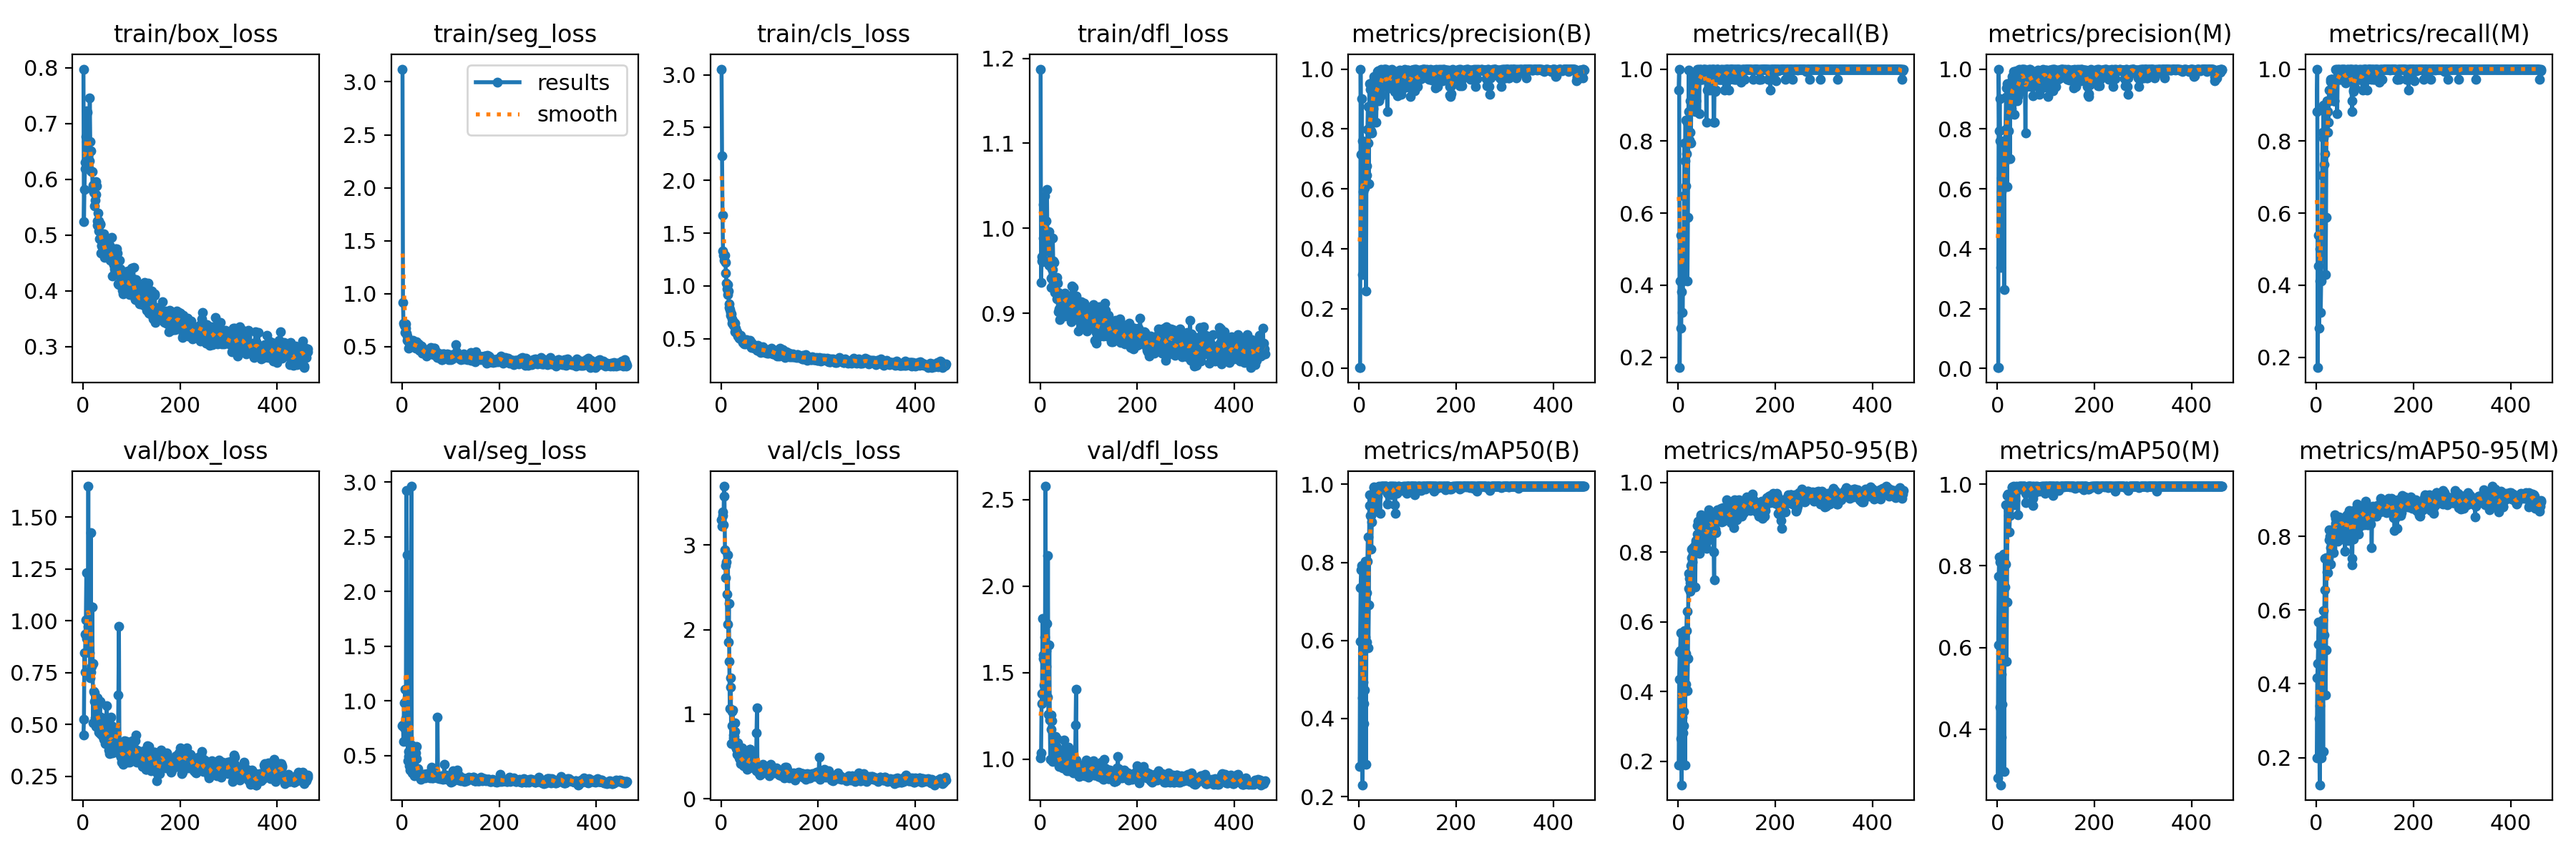
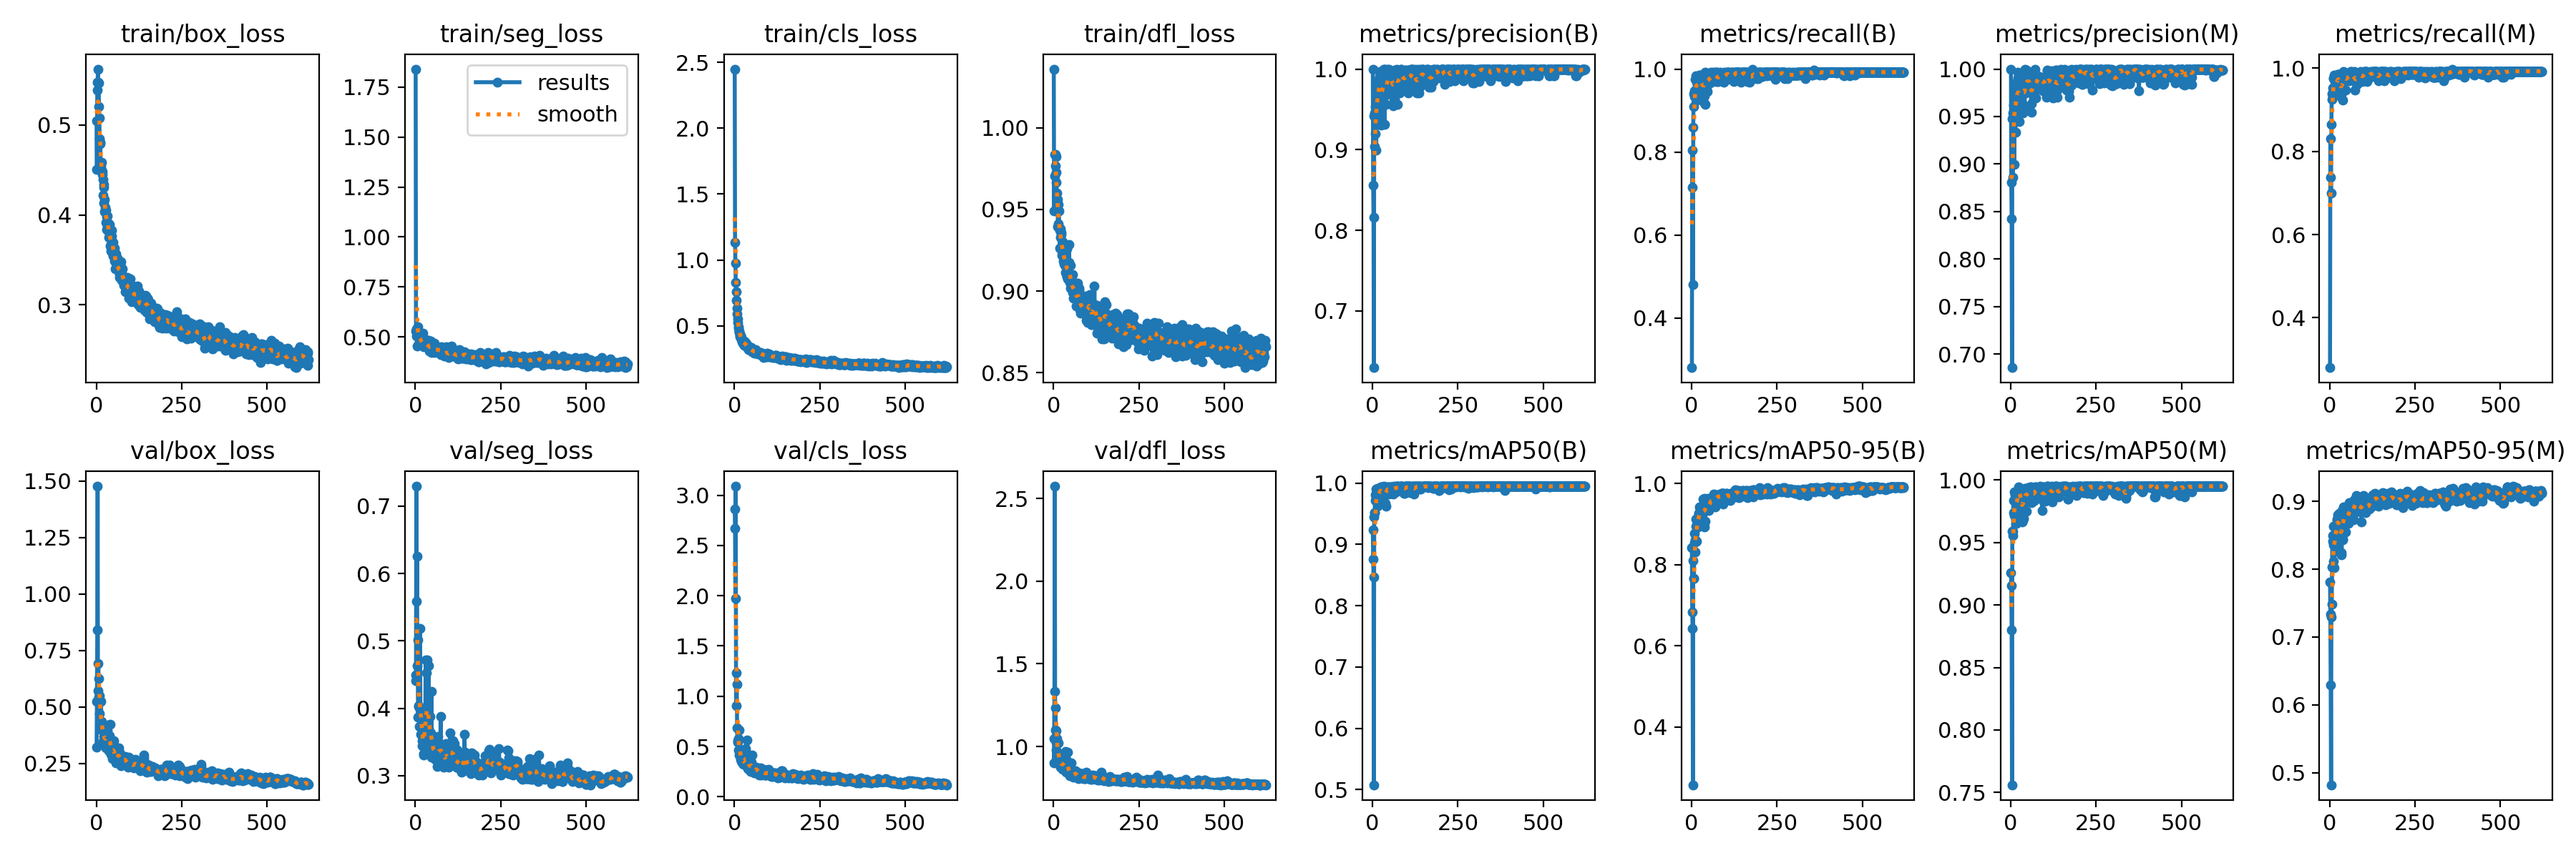
v1.2.9 Update

diff --git a/translate.js b/translate.js
@@ -1,6 +1,6 @@
 const translations = {
   zh: {
-    nav: ["下载", "功能", "画廊", "常见问题", "联系", "English"],
+    nav: ["下载", "功能", "画廊", "常见问题", "测试", "联系", "English"],
     downloadTitle: "下载",
     downloadText: `你有没有因为奇怪的挂机检查而无法舒畅地玩 <a href="https://florr.io" class="text-blue-600 underline hover:text-blue-800" target="_blank" rel="noopener noreferrer">florr.io</a>？下载最新版的 Florr Auto AFK ，让你以高准确率轻松解决它们。目前我们的程序没有导致任何封号记录，因此现在是很安全的。`,
     latestVersion: "最新版本：",
@@ -22,7 +22,7 @@ const translations = {
     ],
     galleryTitle: "画廊",
     galleryText: "以下是模型解决的挂机检查图集和训练统计。",
-    trainingStats: "2025 年 5 月 23 日训练，使用 225 个样本（192 训练样本，33 验证样本），共 431 轮训练。",
+    trainingStats: "2025 年 6 月 1 日训练，使用 878 个样本（747 训练样本，131 验证样本），共 521 轮训练。",
     faqTitle: "常见问题",
     faqSubtitle: "常见问题解答",
     faqItems: [
@@ -47,6 +47,8 @@ const translations = {
         a: `**不支持**。我只有 Windows 设备，手头没有 Mac 测试。如果你真的想用，可以下载 <a href="https://github.com/Shiny-Ladybug/florr-auto-afk/releases/tag/v1.1.1" rel="noopener noreferrer" class="text-blue-600 underline hover:text-blue-800">v1.1.1 源代码</a> 自行部署。`
       }
     ],
+    testTitle: "测试",
+    testDesc: "florr-auto-afk v1.2.9(Release) 测试视频",
     contactTitle: "联系",
     contactText: `如有问题或建议，请通过
         <a href="https://github.com/Shiny-Ladybug/florr-auto-afk/issues" target="_blank" rel="noopener noreferrer" class="text-blue-600 underline hover:text-blue-800">
@@ -60,7 +62,7 @@ const translations = {
       "© 2025 Florr Auto AFK。保留所有权利。项目遵循 GPL-3.0 许可协议。",
   },
   en: {
-    nav: ["Download", "Features", "Gallery", "FAQ", "Contact", "中文"],
+    nav: ["Download", "Features", "Gallery", "FAQ", "Test", "Contact", "中文"],
     downloadTitle: "Download",
     downloadText: `Tired of the odd, snake-like AFK Checks that stop you from relaxing while playing <a href="https://florr.io" class="text-blue-600 underline hover:text-blue-800" target="_blank" rel="noopener noreferrer">florr.io</a>? Download the latest version of Florr Auto AFK to easily bypass them with high accuracy. Our application has not caused any bans so far, so it appears to be safe to use.`,
     latestVersion: "Latest version: ",
@@ -84,7 +86,7 @@ const translations = {
     galleryText:
       "A collage of the countless AFK checks our model solved, and the training statistics.",
     trainingStats:
-      "Trained on 5/23/2025 based on 225 instances (192 train, 33 val) with 431 epochs.",
+      "Trained on `6/01/2025` based on 878 instances (747 train ~~actually 747 should be a boeing jet instead of a train~~, 131 val) with 521 epochs",
     faqTitle: "FAQ",
     faqSubtitle: "Frequently Asked Questions.",
     faqItems: [
@@ -109,6 +111,8 @@ const translations = {
         a: `**No**. I'm actually a fan of Windows. And my old MacBook is dead. I even don't have a machine to test. If you really want to use it. Download <a href="https://github.com/Shiny-Ladybug/florr-auto-afk/releases/tag/v1.1.1" rel="noopener noreferrer" class="text-blue-600 underline hover:text-blue-800">v1.1.1 Source Code</a> and deploy it yourself.`
       }
     ],
+    testTitle: "Test",
+    testDesc: "Test video of florr-auto-afk v1.2.9(Release)",
     contactTitle: "Contact",
     contactText: `For questions or suggestions, contact us via
         <a href="https://github.com/Shiny-Ladybug/florr-auto-afk/issues" target="_blank" rel="noopener noreferrer" class="text-blue-600 underline hover:text-blue-800">
@@ -155,7 +159,7 @@ function updateLanguageTexts() {
   // Gallery
   document.querySelector("#gallery h2").textContent = t.galleryTitle;
   document.querySelector("#gallery p.text-xl").textContent = t.galleryText;
-  document.querySelector("#gallery p.text-lg").textContent = t.trainingStats;
+  document.querySelector("#gallery p.text-lg").innerHTML = marked.parse(t.trainingStats);
 
   // FAQ Section
   document.querySelector("#faq h2").textContent = t.faqTitle;
@@ -168,6 +172,10 @@ function updateLanguageTexts() {
       faqItemDivs[index].querySelector("p").innerHTML = marked.parse(item.a);
     }
   });
+
+  // Test Section
+  document.querySelector("#test h2").textContent = t.testTitle;
+  document.querySelector("#test p.text-xl").textContent = t.testDesc;
 
   // Contact
   document.querySelector("#contact h2").textContent = t.contactTitle;

diff --git a/index.html b/index.html
@@ -5,7 +5,7 @@
   <meta charset="UTF-8" />
   <meta name="viewport" content="width=device-width, initial-scale=1.0" />
   <title>Florr Auto AFK</title>
-  <link rel="icon" type="image/x-icon" href="assets/icon.ico">
+  <link rel="icon" type="image/x-icon" href="./favicon.ico">
   <script src="https://cdn.tailwindcss.com"></script>
   <script src="https://cdn.jsdelivr.net/npm/marked/marked.min.js"></script>
   <style>
@@ -23,6 +23,7 @@
         <a href="#features" class="hover:text-green-600 font-medium">Features</a>
         <a href="#gallery" class="hover:text-yellow-600 font-medium">Gallery</a>
         <a href="#faq" class="hover:text-indigo-600 font-medium">FAQ</a>
+        <a href="#test" class="hover:text-red-600 font-medium">Test</a>
         <a href="#contact" class="hover:text-gray-600 font-medium">Contact</a>
         <button id="lang-toggle" class="hover:text-purple-600 font-medium">
           中文
@@ -163,6 +164,20 @@
       <div class="bg-white p-6 rounded-lg shadow-md">
         <h3 class="text-2xl font-semibold mb-2"></h3>
         <p class="text-lg"></p>
+      </div>
+    </div>
+  </section>
+
+  <!-- Section: Test -->
+  <section id="test" class="min-h-screen bg-red-200 pt-24 px-6 flex flex-col items-center">
+    <div class="w-full text-center mt-6">
+      <h2 class="text-5xl font-bold mb-4">Test</h2>
+      <p class="text-xl mb-8">Demo video of Florr Auto AFK in action.</p>
+      <div class="flex justify-center items-center w-full">
+        <video controls class="rounded-xl shadow-lg w-4/5 h-auto" style="max-width:800px;">
+          <source src="./test.mp4" type="video/mp4">
+          Your browser does not support the video tag.
+        </video>
       </div>
     </div>
   </section>

diff --git a/worker.js b/worker.js
@@ -147,7 +147,7 @@ document.addEventListener('DOMContentLoaded', () => {
 
     function animateBall() {
         if (pathPoints.length < 2) return;
-		
+
         if (currentSegment >= pathPoints.length - 1 && progressInSegment >= 1.0) {
             currentSegment = 0;
             progressInSegment = 0;
@@ -158,20 +158,20 @@ document.addEventListener('DOMContentLoaded', () => {
             requestAnimationFrame(animateBall);
             return;
         }
-		
+
         if (currentSegment >= pathPoints.length - 1) {
             currentSegment = 0;
             progressInSegment = 0;
         }
-		
+
         const p1 = pathPoints[currentSegment];
         const p2 = pathPoints[currentSegment + 1];
         const targetX = p1.x + (p2.x - p1.x) * progressInSegment;
         const targetY = p1.y + (p2.y - p1.y) * progressInSegment;
 
-		if (currentSegment >= pathPoints.length - 2 && progressInSegment >= 1.0 - animationSpeed) {
-			createParticles(offsetX + targetX + 10, offsetY + targetY + 10);
-		}
+        if (currentSegment >= pathPoints.length - 2 && progressInSegment >= 1.0 - animationSpeed) {
+            createParticles(offsetX + targetX + 10, offsetY + targetY + 10);
+        }
 
         ball.style.left = (offsetX + targetX) + 'px';
         ball.style.top = (offsetY + targetY) + 'px';
